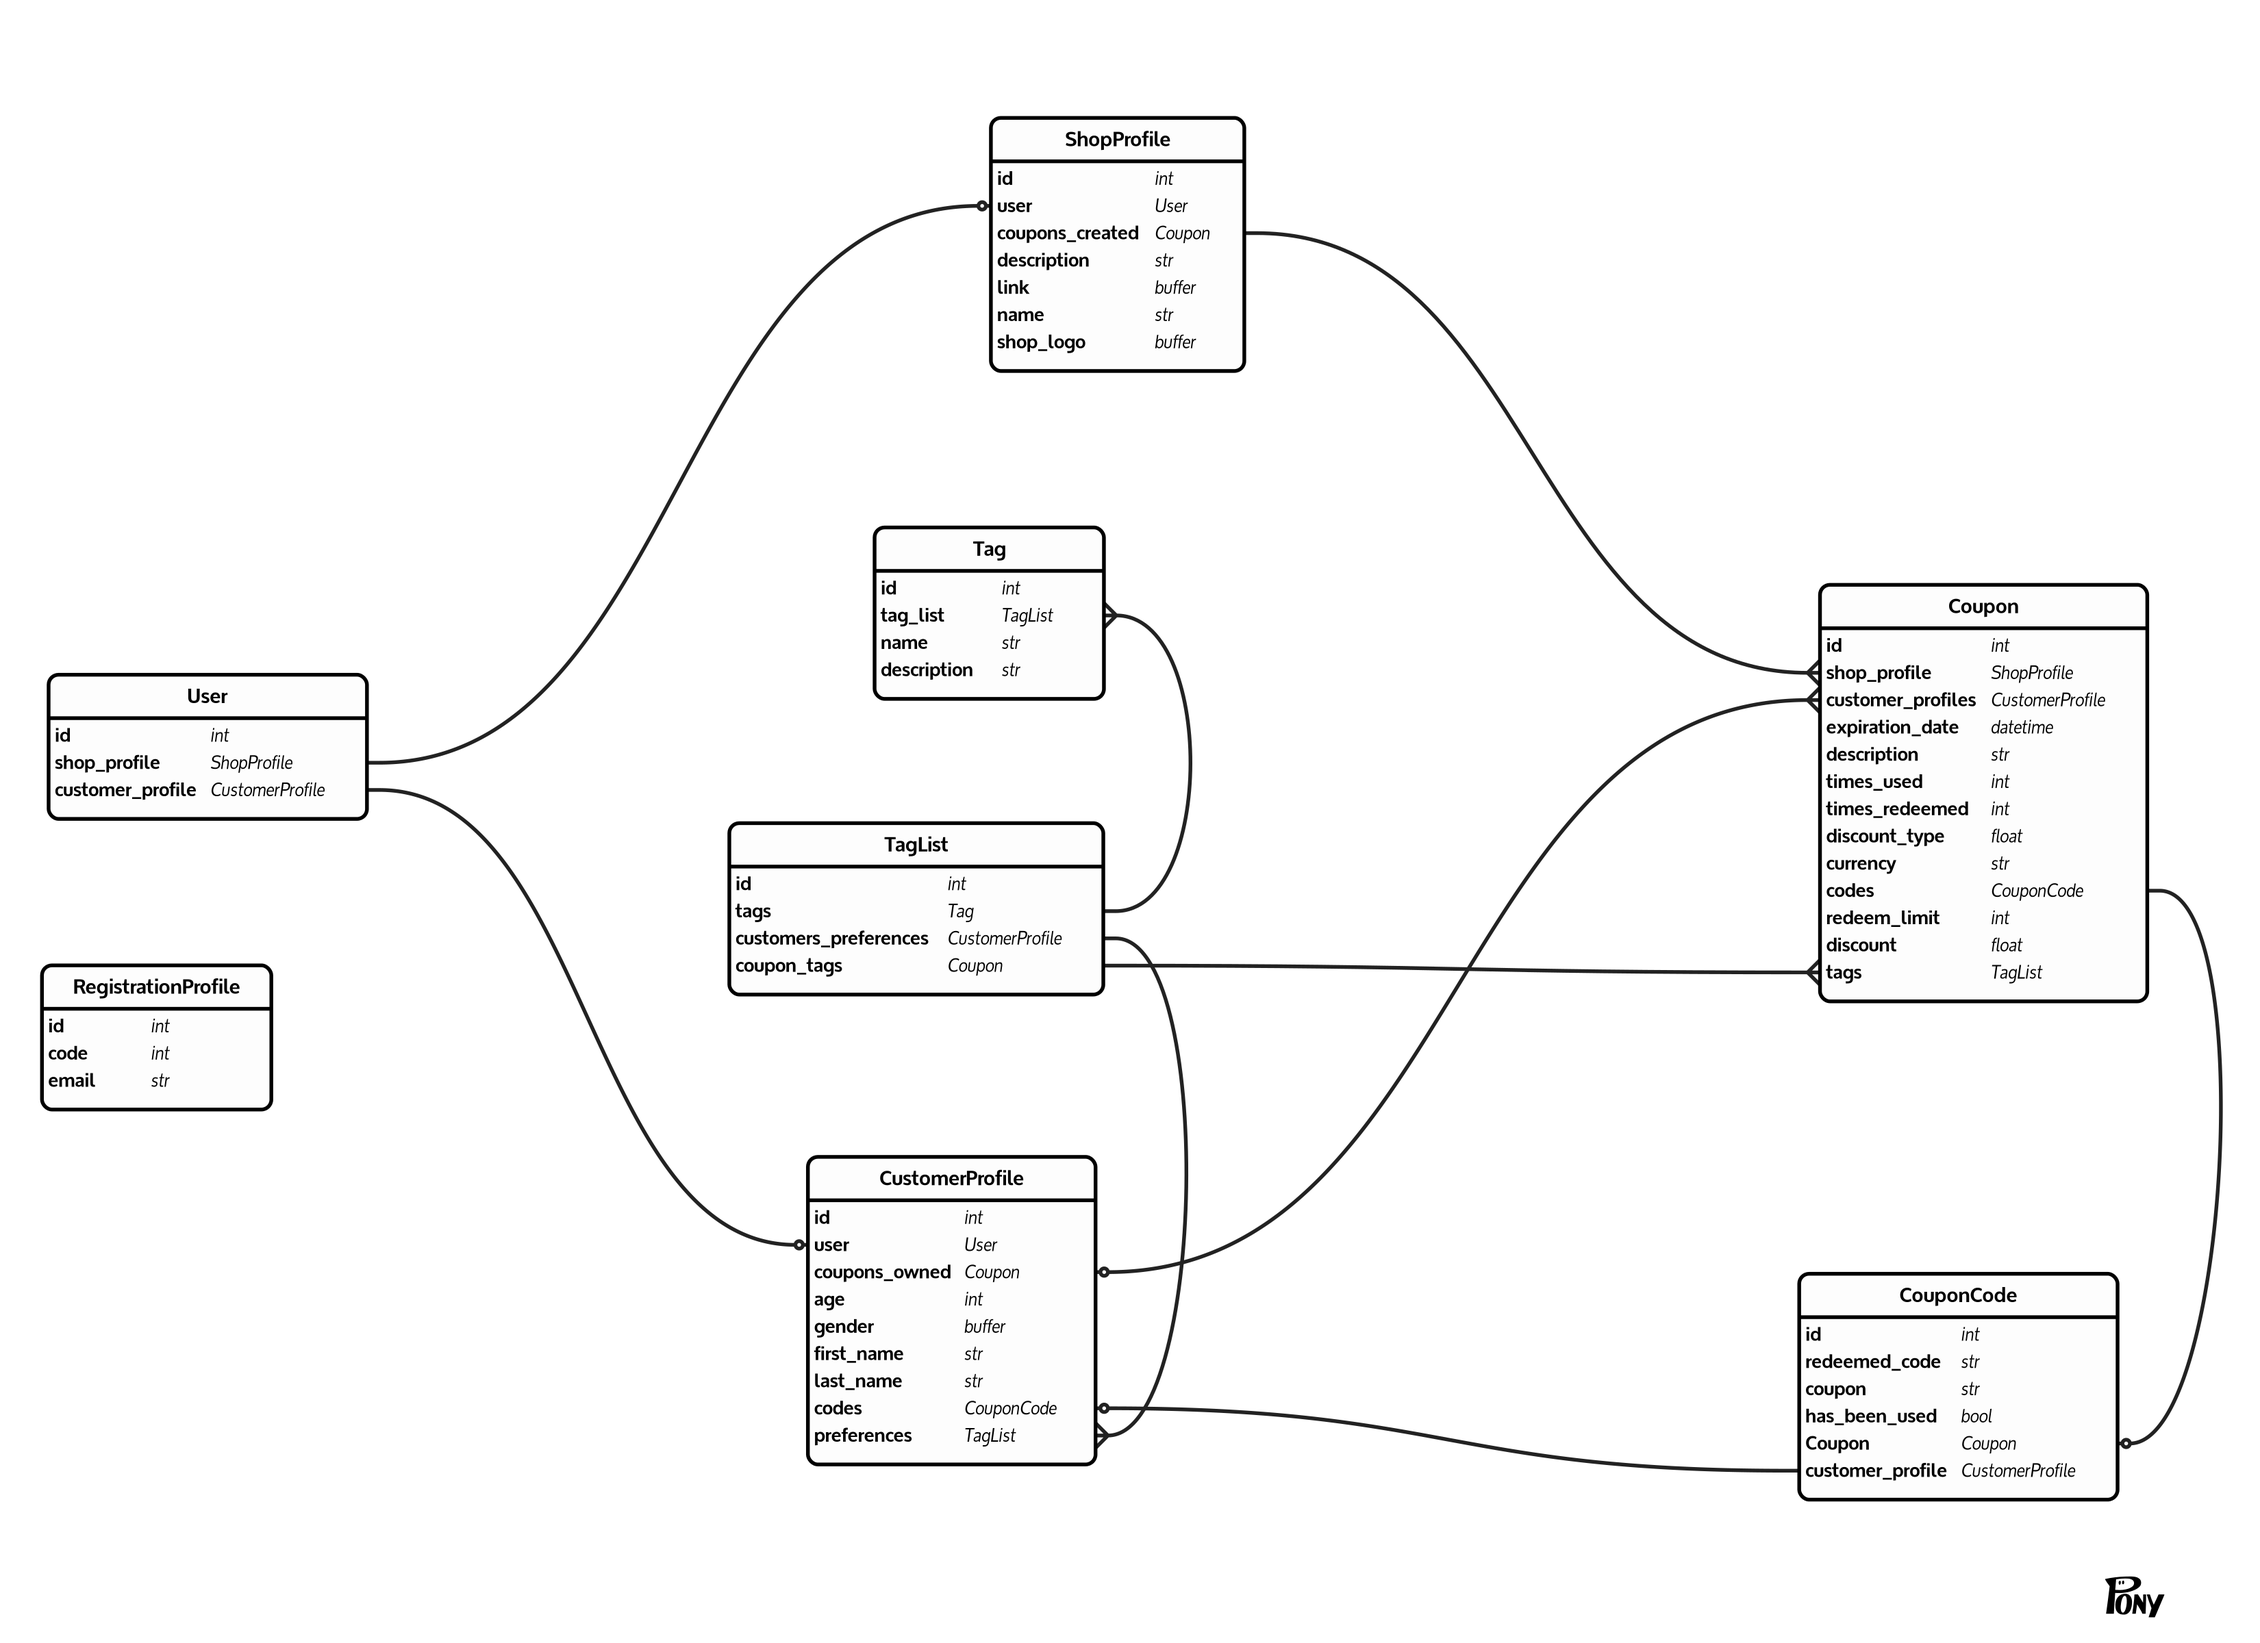
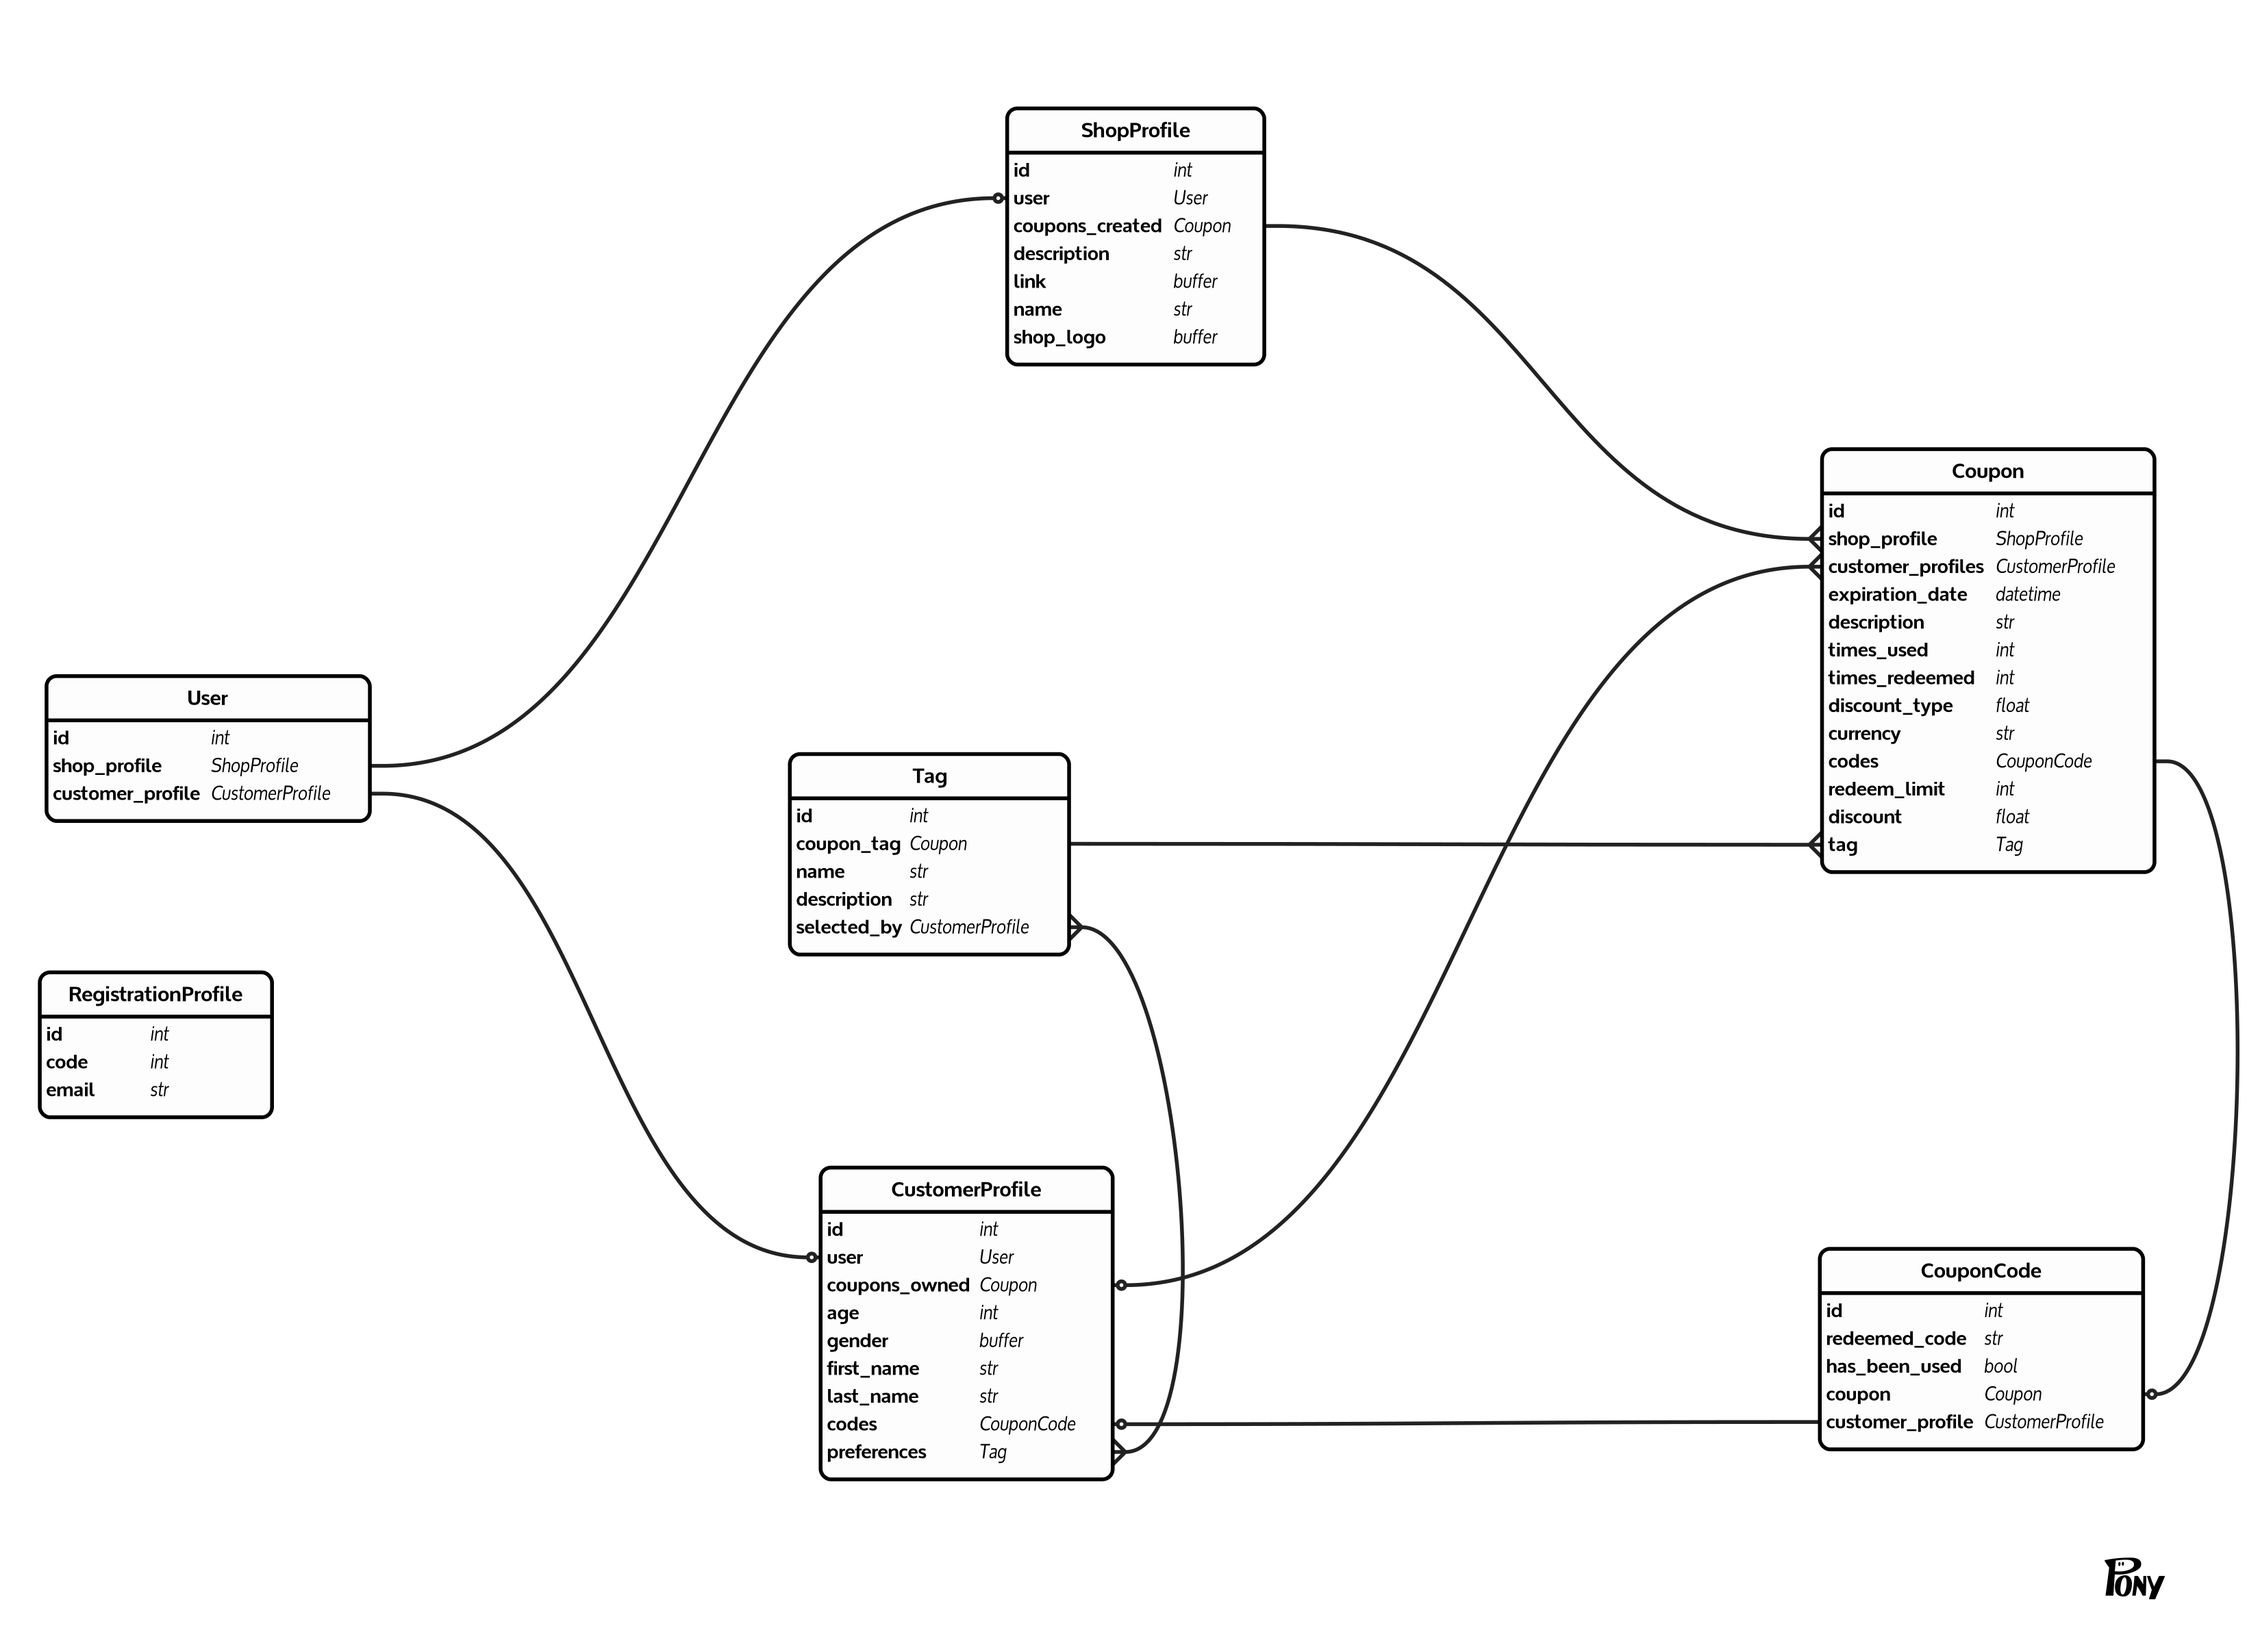
- created a tag for coupons and preferences for Customers - updated PonyORM

diff --git a/backend/coupon/serializers.py b/backend/coupon/serializers.py
@@ -9,7 +9,7 @@ from tag.serializers import TagSerializer
 class CouponCodeSerializer(serializers.ModelSerializer):
     class Meta:
         model = CouponCode
-        fields = ['redeemed_code', 'has_been_used']
+        fields = ['redeemed_code']
 
 
 class ShopNameSerializer(serializers.ModelSerializer):
@@ -22,11 +22,10 @@ class CouponSerializer(serializers.ModelSerializer):
     customer_profiles = CustomerProfileSerializer(many=True, read_only=True)
     coupon_codes = CouponCodeSerializer(many=True, read_only=True)
     shop_profile = ShopNameSerializer(read_only=True)
-    tags = TagSerializer(many=True)
+    tag = TagSerializer()
 
     class Meta:
         model = Coupon
-        fields = ['shop_profile', 'expiration_date', 'description', 'times_redeemed', 'redeem_limit',
-                  'customer_profiles',
-                  'coupon_codes', 'tags']
+        fields = ['shop_profile', 'customer_profiles', 'expiration_date', 'title', 'description', 'times_used',
+                  'times_redeemed', 'redeem_limit', 'discount_type', 'discount', 'currency', 'tag', 'coupon_codes']
         read_only_fields = ['customer_profiles', 'coupon_codes']

diff --git a/backend/tag/migrations/0001_initial.py b/backend/tag/migrations/0001_initial.py
@@ -1,4 +1,4 @@
-# Generated by Django 4.1.5 on 2023-02-08 18:47
+# Generated by Django 4.1.5 on 2023-02-10 15:33
 
 from django.db import migrations, models
 
@@ -8,8 +8,6 @@ class Migration(migrations.Migration):
     initial = True
 
     dependencies = [
-        ('customerProfile', '0001_initial'),
-        ('shopProfile', '0001_initial'),
     ]
 
     operations = [
@@ -17,9 +15,8 @@ class Migration(migrations.Migration):
             name='Tag',
             fields=[
                 ('id', models.BigAutoField(auto_created=True, primary_key=True, serialize=False, verbose_name='ID')),
-                ('description', models.TextField(blank=True, max_length=50, null=True)),
-                ('customers_tagging', models.ManyToManyField(blank=True, related_name='preferences', to='customerProfile.customerprofile')),
-                ('shops_tagged', models.ManyToManyField(blank=True, related_name='tags', to='shopProfile.shopprofile')),
+                ('name', models.CharField(max_length=50)),
+                ('description', models.CharField(blank=True, max_length=200, null=True)),
             ],
         ),
     ]

diff --git a/backend/coupon/migrations/0003_initial.py b/backend/coupon/migrations/0003_initial.py
@@ -1,4 +1,4 @@
-# Generated by Django 4.1.5 on 2023-02-08 18:47
+# Generated by Django 4.1.5 on 2023-02-10 15:33
 
 from django.db import migrations, models
 import django.db.models.deletion
@@ -9,8 +9,9 @@ class Migration(migrations.Migration):
     initial = True
 
     dependencies = [
-        ('coupon', '0002_initial'),
+        ('tag', '0001_initial'),
         ('shopProfile', '0001_initial'),
+        ('coupon', '0002_initial'),
     ]
 
     operations = [
@@ -18,6 +19,11 @@ class Migration(migrations.Migration):
             model_name='coupon',
             name='shop_profile',
             field=models.ForeignKey(on_delete=django.db.models.deletion.CASCADE, related_name='coupons_created', to='shopProfile.shopprofile'),
+        ),
+        migrations.AddField(
+            model_name='coupon',
+            name='tag',
+            field=models.ForeignKey(blank=True, null=True, on_delete=django.db.models.deletion.SET_NULL, related_name='coupon_tag', to='tag.tag'),
         ),
         migrations.AlterUniqueTogether(
             name='couponcode',

diff --git a/backend/customerProfile/serializers.py b/backend/customerProfile/serializers.py
@@ -1,13 +1,22 @@
 from rest_framework import serializers
-from tag.serializers import TagSerializer
+
+from coupon.couponCodeSerializer import CouponCodeSerializer
+from coupon.models import CouponCode
 from customerProfile.models import CustomerProfile
+from tag.serializers import TagSerializer
 
 
 class CustomerProfileSerializer(serializers.ModelSerializer):
-    coupon_codes = serializers.StringRelatedField(many=True, read_only=True)
-    # adding the preferences tags from TAGS models
-    preferences = TagSerializer(many=True)
+    preferences = TagSerializer(many=True, required=False)
 
     class Meta:
         model = CustomerProfile
-        fields = ['age', 'gender', 'firstname', 'lastname', 'coupon_codes', 'preferences']
+        fields = ['age', 'gender', 'firstname', 'lastname', 'preferences']
+
+
+class CustomerCodeSerializer(serializers.ModelSerializer):
+    codes = CouponCodeSerializer(read_only=True)
+
+    class Meta:
+        model = CouponCode
+        fields = ['redeemed_code']

diff --git a/backend/customerProfile/migrations/0001_initial.py b/backend/customerProfile/migrations/0001_initial.py
@@ -1,4 +1,4 @@
-# Generated by Django 4.1.5 on 2023-02-08 18:47
+# Generated by Django 4.1.5 on 2023-02-10 15:33
 
 import customerProfile.models
 from django.db import migrations, models
@@ -9,6 +9,7 @@ class Migration(migrations.Migration):
     initial = True
 
     dependencies = [
+        ('tag', '0001_initial'),
     ]
 
     operations = [
@@ -20,6 +21,7 @@ class Migration(migrations.Migration):
                 ('gender', models.CharField(choices=[('MALE', 'Male'), ('FEMALE', 'Female'), ('OTHER', 'Other')], default=customerProfile.models.Gender['OTHER'], max_length=6)),
                 ('firstname', models.CharField(max_length=100)),
                 ('lastname', models.CharField(max_length=100)),
+                ('preferences', models.ManyToManyField(blank=True, null=True, related_name='selected_by', to='tag.tag')),
             ],
         ),
     ]

diff --git a/backend/tag/views.py b/backend/tag/views.py
@@ -1,19 +1,12 @@
-from django.contrib.auth import get_user_model
-from rest_framework.generics import ListAPIView
-from rest_framework.permissions import IsAuthenticated
+from rest_framework.generics import RetrieveUpdateDestroyAPIView
 
 from tag.models import Tag
 from tag.serializers import TagSerializer
 
-User = get_user_model()
 
-
-class ListTagView(ListAPIView):
-    """
-    get:
-    Lists all Tags.
-    """
-
-    serializer_class = TagSerializer
+class TagView(RetrieveUpdateDestroyAPIView):
     queryset = Tag.objects.all()
-    permission_classes = [IsAuthenticated]
+    serializer_class = TagSerializer
+    lookup_field = 'id'
+    lookup_url_kwarg = 'tag_id'  # field in the request
+    http_method_names = ['get', 'post', 'put', 'delete']

diff --git a/backend/tag/models.py b/backend/tag/models.py
@@ -1,13 +1,9 @@
 from django.db import models
-from customerProfile.models import CustomerProfile
-from coupon.models import Coupon
 
 
 class Tag(models.Model):
-    coupons_tagged = models.ManyToManyField(to=Coupon, blank=True, related_name='tags')
-    customers_tagging = models.ManyToManyField(to=CustomerProfile, blank=True,
-                                               related_name='preferences')
-    description = models.TextField(max_length=50, null=True, blank=True)
+    name = models.CharField(max_length=50)
+    description = models.CharField(max_length=200, null=True, blank=True)
 
     def __str__(self):
-        return f'Tagged: {self.id}: {self.description}'
+        return f'Tag: {self.id}: {self.name}, {self.description} '

diff --git a/backend/coupon/models.py b/backend/coupon/models.py
@@ -2,8 +2,10 @@ import random
 import string
 
 from django.db import models
+
 from customerProfile.models import CustomerProfile
 from shopProfile.models import ShopProfile
+from tag.models import Tag
 
 
 class Coupon(models.Model):
@@ -34,6 +36,8 @@ class Coupon(models.Model):
         max_length=3, choices=CURRENCY_CHOICES, default='EUR',
         blank=True, null=True
     )
+    tag = models.ForeignKey(
+        to=Tag, on_delete=models.SET_NULL, related_name='coupon_tag', null=True, blank=True)
 
     def save(self, *args, **kwargs):
         if self.discount_type == 'percentage':

diff --git a/backend/coupon/admin.py b/backend/coupon/admin.py
@@ -1,6 +1,5 @@
 from django.contrib import admin
 
-from shopProfile.models import ShopProfile
 from .models import Coupon
 
 
@@ -12,11 +11,6 @@ class CouponAdmin(admin.ModelAdmin):
         return obj.shop_profile.name
 
     shop_name.short_description = 'Shop Name'
-
-    def formfield_for_foreignkey(self, db_field, request, **kwargs):
-        if db_field.name == "shop_profile":
-            kwargs["queryset"] = ShopProfile.objects.order_by("name")
-        return super().formfield_for_foreignkey(db_field, request, **kwargs)
 
 
 admin.site.register(Coupon, CouponAdmin)

diff --git a/backend/customerProfile/models.py b/backend/customerProfile/models.py
@@ -1,6 +1,8 @@
 from enum import Enum
+
 from django.db import models
 
+from tag.models import Tag
 from users.models import User
 
 
@@ -20,5 +22,7 @@ class CustomerProfile(models.Model):
     user = models.OneToOneField(to=User, on_delete=models.CASCADE, related_name="customer_profile")
     firstname = models.CharField(max_length=100)
     lastname = models.CharField(max_length=100)
+    preferences = models.ManyToManyField(
+        to=Tag, related_name='selected_by', null=True, blank=True)
 
     REQUIRED_FIELDS = ['__all__']

diff --git a/backend/customerProfile/admin.py b/backend/customerProfile/admin.py
@@ -7,5 +7,10 @@ class CustomerProfileAdmin(admin.ModelAdmin):
     list_display = ('lastname', 'firstname')
     ordering = ('lastname',)
 
+    def redeemed_code(self, obj):
+        return obj.codes.redeemed_code
+
+    redeemed_code.short_description = 'Codes'
+
 
 admin.site.register(CustomerProfile, CustomerProfileAdmin)

diff --git a/backend/coupon/couponCodeSerializer.py b/backend/coupon/couponCodeSerializer.py
@@ -1,0 +1,9 @@
+from rest_framework import serializers
+
+from coupon.models import CouponCode
+
+
+class CouponCodeSerializer(serializers.ModelSerializer):
+    class Meta:
+        model = CouponCode
+        fields = ['redeemed_code']
